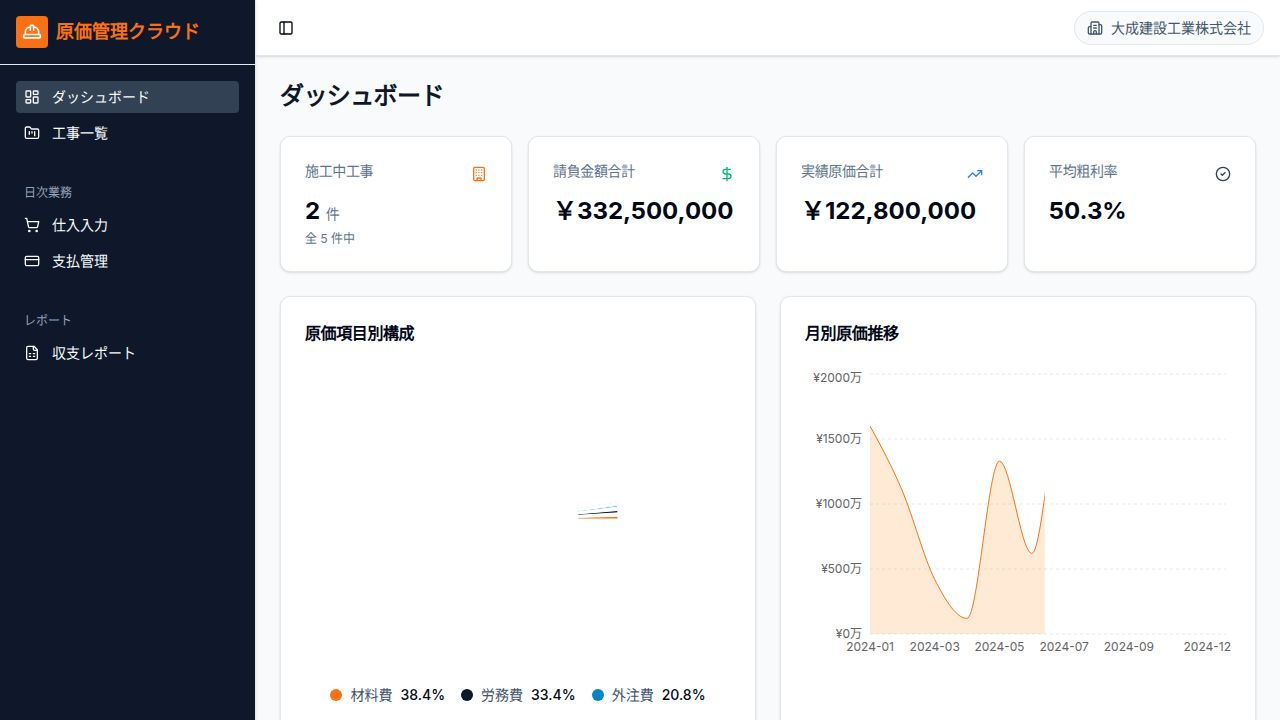
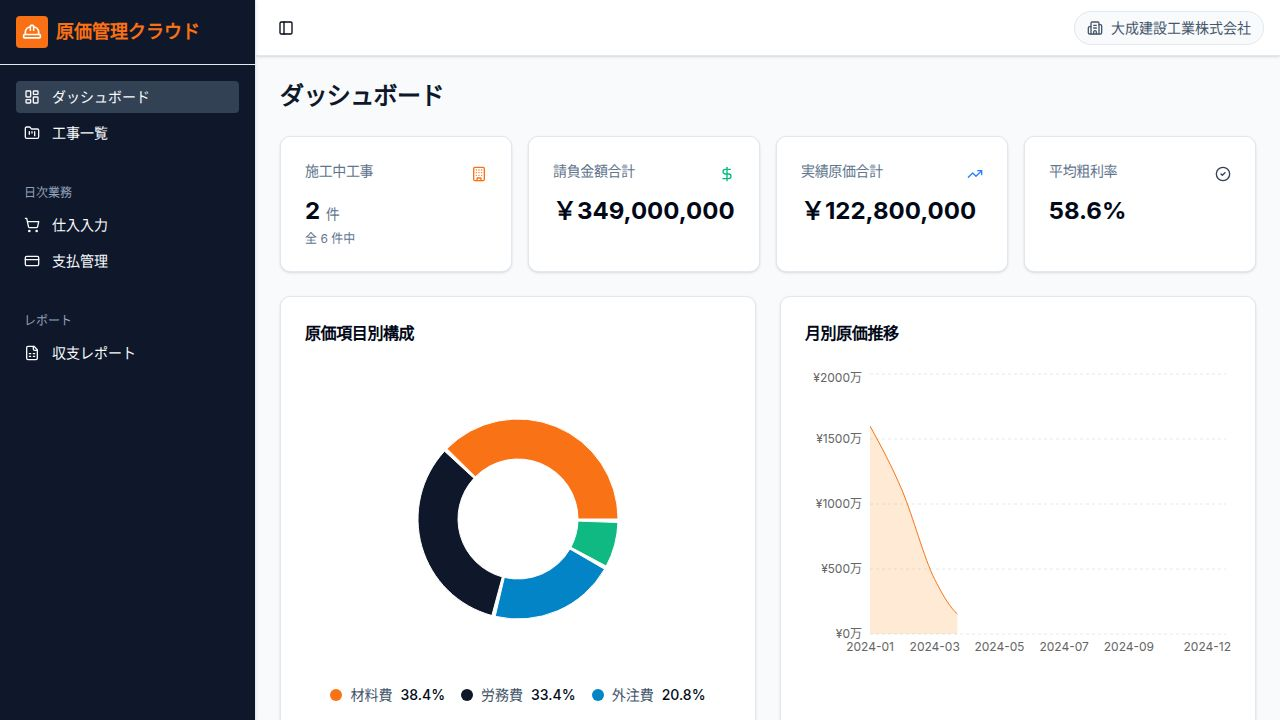
feat: 仕入登録時の支払予定自動生成 (Task #3)
## 概要
仕入入力画面で「登録する」を押すと、原価明細の登録後に支払予定を自動で1件作成する機能を実装した。

## 変更内容

### artifacts/genka-kanri/src/pages/purchases.tsx
- `createPayment` state を追加（デフォルト: true）
- 「支払予定も作成する」チェックボックスを基本情報カードの右カラム（仮伝票チェックボックスの下）に追加
- `newSlip()` リセット時に `createPayment` を true に戻す処理を追加
- `handleRegister` を拡張:
  - 原価明細の登録完了後、`createPayment` が true の場合に `POST /api/payments` を呼び出す
  - 支払予定の内容: 支払先=仕入先, 金額=税込合計, 支払予定日=支払予定日（未入力時はnull=期日なし）, 伝票番号=自動採番番号
  - 支払予定作成成功時に queryClient でキャッシュを無効化
  - 支払予定作成失敗時に専用エラートーストを表示（仕入明細は登録済みの旨を伝える）
  - トーストメッセージを「支払予定も登録しました。」を含む内容に更新（成功時）

## 実装の判断
- `POST /api/payments` への呼び出しは既存のpayments.tsxと同じURLパターン(/api/payments)を使用
- チェックボックスがONの場合は常に支払予定を作成（金額0でも作成可能）
- 支払予定API失敗時は仕入明細登録の成功メッセージと別にエラートーストを表示し、手動追加を促す
- APIサーバーのpayments.tsルートは変更不要（既存のPOSTエンドポイントをそのまま利用）

## テスト結果
E2Eテスト（Playwright）で以下を確認:
- チェックボックスがデフォルトでオン表示される
- 登録完了トーストに「支払予定も登録しました」が表示される
- 支払管理画面に「未払」ステータスで支払予定が表示される
- invoiceNumberがST-から始まる形式で正しく設定される

Replit-Task-Id: 7a7d5f80-ab6d-44c5-bc7f-cb3314eca022

diff --git a/artifacts/genka-kanri/src/pages/purchases.tsx b/artifacts/genka-kanri/src/pages/purchases.tsx
@@ -100,6 +100,9 @@ export default function Purchases() {
   const [isDraft,         setIsDraft]         = useState(false);
   const [memo,            setMemo]            = useState("");
 
+  // ── 支払予定生成フラグ ────────────────────────────────────────────────────
+  const [createPayment, setCreatePayment] = useState(true);
+
   // ── 明細行状態 ───────────────────────────────────────────────────────────
   const [rows, setRows] = useState<DetailRow[]>([createRow()]);
 
@@ -145,6 +148,7 @@ export default function Purchases() {
     setTaxCalcType("外税明細単位");
     setIsDraft(false);
     setMemo("");
+    setCreatePayment(true);
     setRows([createRow()]);
   };
 
@@ -184,7 +188,37 @@ export default function Purchases() {
           })
         )
       );
-      toast({ title: "登録完了", description: `${validRows.length}件の仕入明細を登録しました。` });
+
+      let paymentCreated = false;
+      if (createPayment) {
+        const res = await fetch("/api/payments", {
+          method: "POST",
+          headers: { "Content-Type": "application/json" },
+          body: JSON.stringify({
+            projectId: parseInt(selectedProject),
+            vendor: vendorName || "（仕入先未入力）",
+            description: `仕入伝票 ${slipNumber}`,
+            amount: totalGross,
+            dueDate: paymentDueDate || undefined,
+            invoiceNumber: slipNumber,
+          }),
+        });
+        if (res.ok) {
+          paymentCreated = true;
+          queryClient.invalidateQueries({ queryKey: ["/api/payments"] });
+        } else {
+          toast({
+            title: "支払予定の登録に失敗しました",
+            description: "仕入明細は登録済みです。支払管理画面から手動で追加してください。",
+            variant: "destructive",
+          });
+        }
+      }
+
+      const desc = paymentCreated
+        ? `${validRows.length}件の仕入明細を登録しました。支払予定も登録しました。`
+        : `${validRows.length}件の仕入明細を登録しました。`;
+      toast({ title: "登録完了", description: desc });
       queryClient.invalidateQueries({ queryKey: ["/api/cost-items"] });
       newSlip();
     } catch {
@@ -348,6 +382,19 @@ export default function Purchases() {
                 />
                 <Label htmlFor="isDraft" className="text-sm text-slate-700 cursor-pointer">
                   仮伝票として保存する
+                </Label>
+              </div>
+
+              {/* 支払予定を作成する */}
+              <div className="flex items-center gap-2">
+                <Checkbox
+                  id="createPayment"
+                  checked={createPayment}
+                  onCheckedChange={v => setCreatePayment(!!v)}
+                  className="accent-teal-600"
+                />
+                <Label htmlFor="createPayment" className="text-sm text-slate-700 cursor-pointer">
+                  支払予定も作成する
                 </Label>
               </div>
             </div>